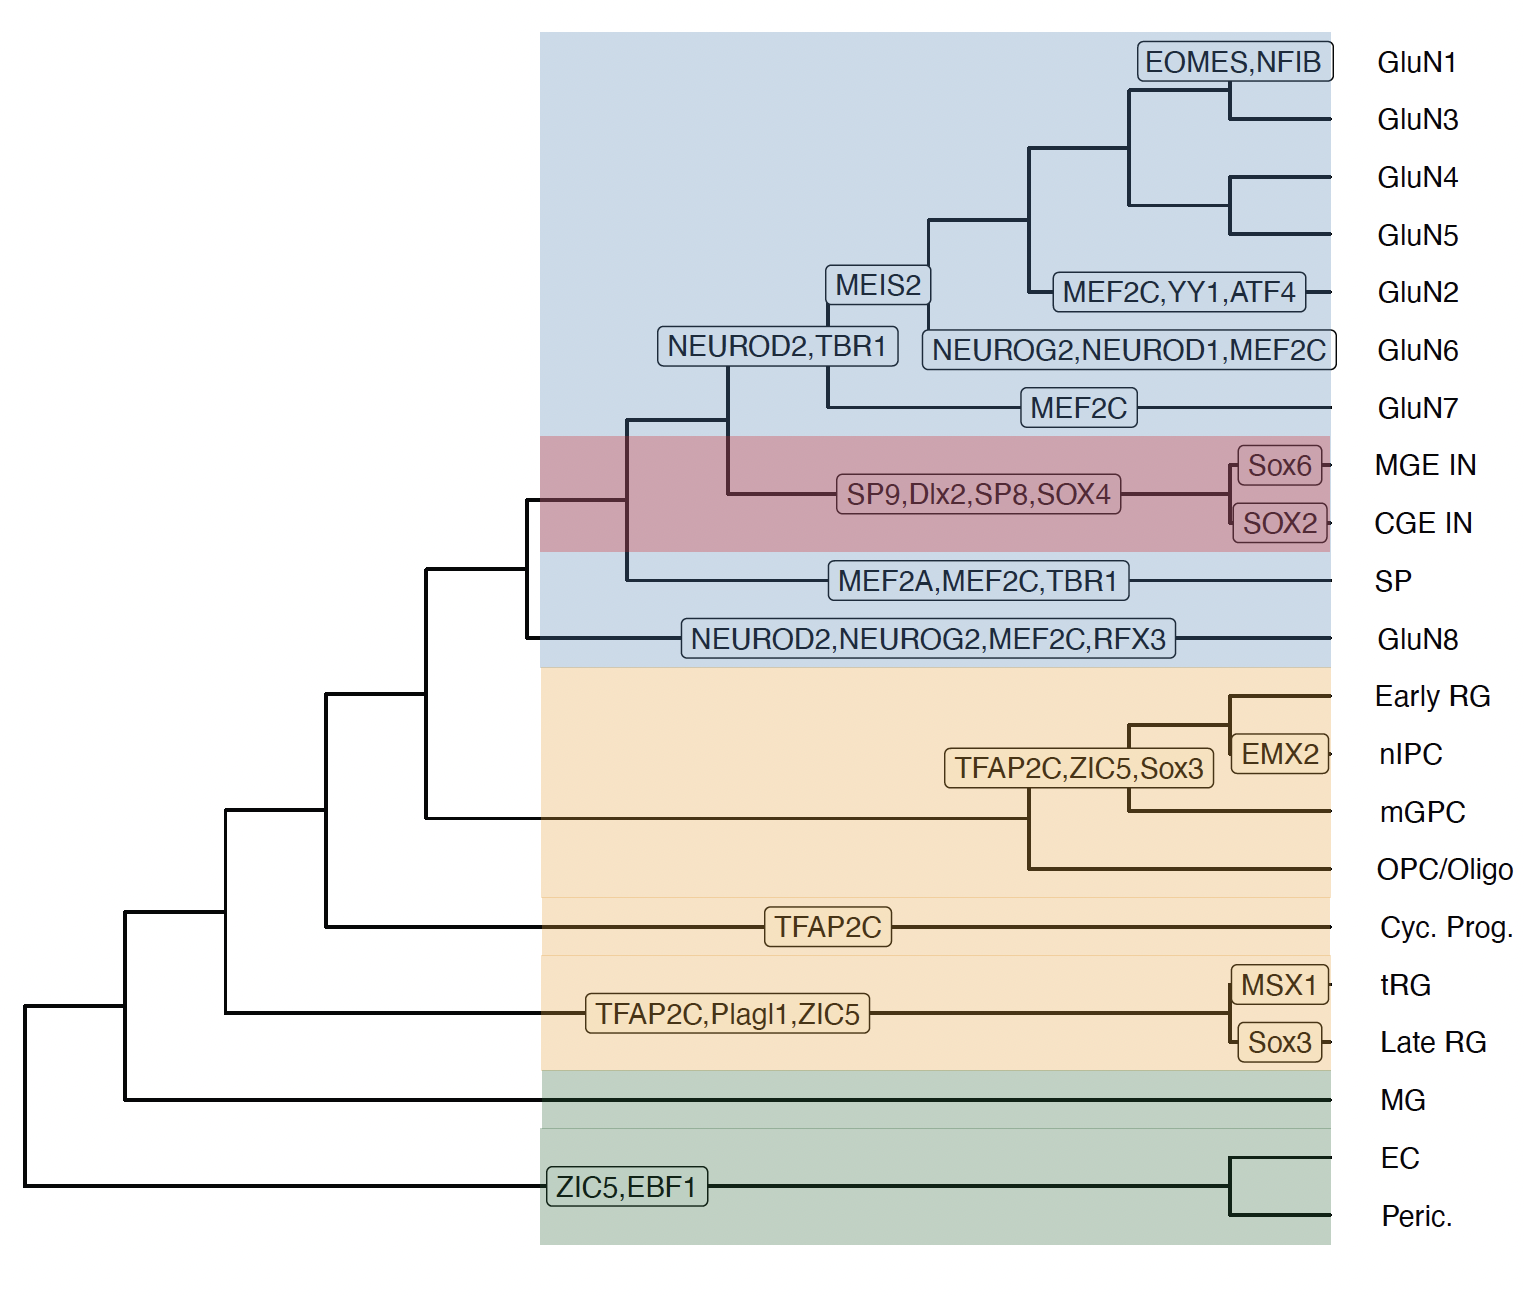
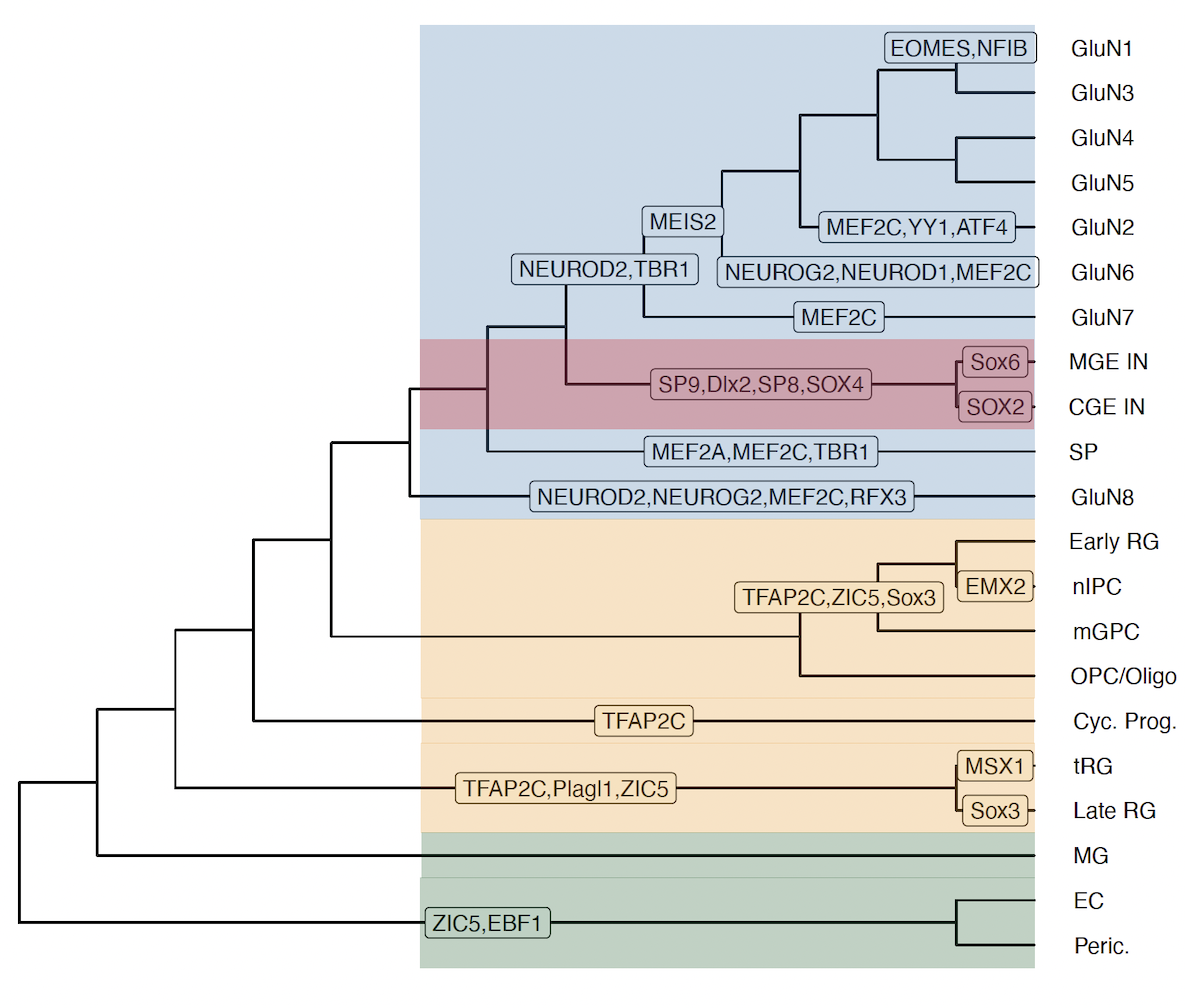
add tfs

diff --git a/examples/CellWalker2_Multiomic_Vignette.md b/examples/CellWalker2_Multiomic_Vignette.md
@@ -592,7 +592,7 @@ ggtree(tree, branch.length = 'none') + geom_tiplab(hjust = -0.5) + xlim(0, 15) +
 
 ![](CellWalker2_Multi_files/figure-markdown_github/tree_topTF-1.png)
 
-If running the full dataset with more cells, we could obtain more significant cell type-specific TFs. For exampl, MEF2C regulates cortical excitatory synapses and is associated with many neuron developmental disorders. TBR1 regulates deep layers of neurons in developing neocortex. EMX2 promotes neuronogensis. ZIC5 is a zinc finger transcription factor which plays important roles in cell-fate specification and cell proliferation during neural crest development. TFAP2C has a general role in maintaining pluripotency. PLAGL1 is upregulated in pediatric central nervous system tumors that may arise from early to intermediate neural progenitor cells.
+If run CellWalker2 on the full dataset with more cells, we could obtain more significant cell type-specific TFs. For exampl, MEF2C regulates cortical excitatory synapses and is associated with many neuron developmental disorders. TBR1 regulates deep layers of neurons in developing neocortex. EMX2 promotes neuronogensis. ZIC5 is a zinc finger transcription factor which plays important roles in cell-fate specification and cell proliferation during neural crest development. TFAP2C has a general role in maintaining pluripotency. PLAGL1 is upregulated in pediatric central nervous system tumors that may arise from early to intermediate neural progenitor cells.
 ![](CellWalker2_Multi_files/figure-markdown_github/tree_topTF-all.png)
 
 #### Mapping transcription factors to cell types using ChIP-Seq peaks
